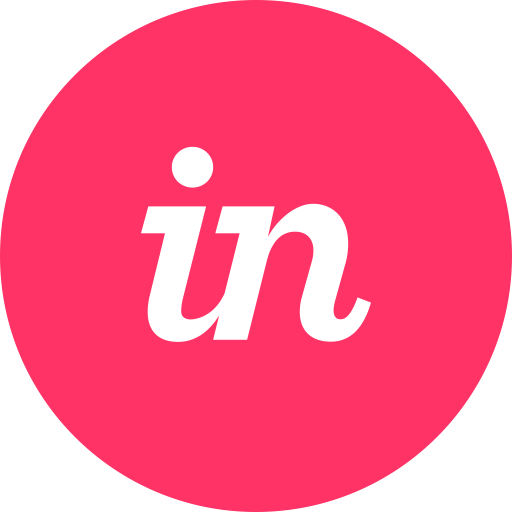
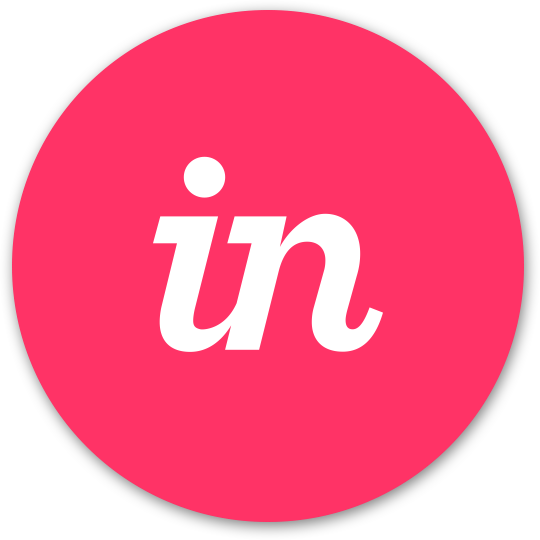
invision cta

diff --git a/projectStyle.css b/projectStyle.css
@@ -127,6 +127,25 @@ a.back-to-home {
     width: 30px;
   }
 
+
+a.invision-CTA {
+  position: fixed;
+  top: 25px;
+  right: 25px;
+  display: inline;
+  text-decoration: none;
+  z-index: 1000;
+}
+
+  img.invision-icon {
+    width: 70px;
+    transition: .5s;
+  }
+
+      a.invision-CTA:hover img.invision-icon {
+        transform: scale(1.15);
+      }
+
   .wrapper {
     display: -webkit-box;
     display: -ms-flexbox;
@@ -145,6 +164,7 @@ a.back-to-home {
     -webkit-box-sizing: border-box;
             box-sizing: border-box;
   }
+
 
   .grey {
     background-color: #EBEEF3;

diff --git a/scheckerIntro.html b/scheckerIntro.html
@@ -42,6 +42,9 @@
   <h6 class="CTA-label">HOME</h6>
 </a>
 
+<a class="invision-CTA" href="https://invis.io/B8RU1TAPZYV">
+  <img class="invision-icon" alt="Invision Icon" src="./Assets/invision-CTA.png" />
+</a>
 
 
 
